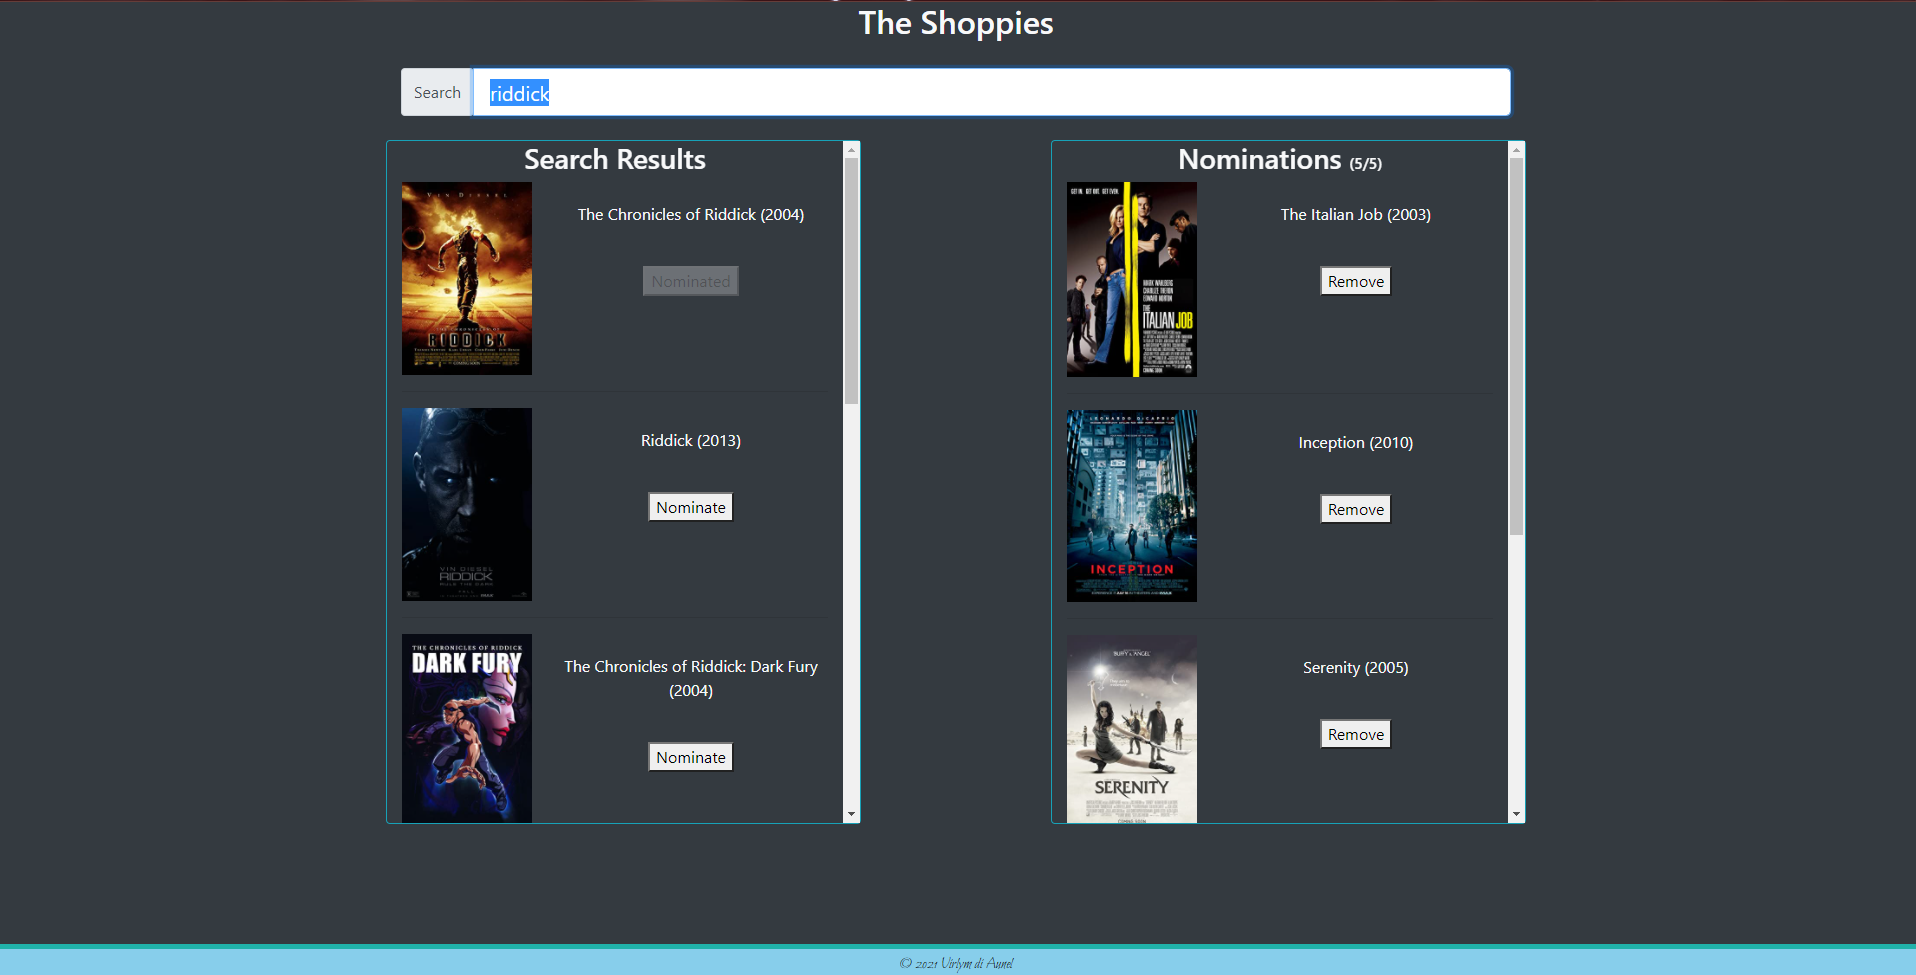
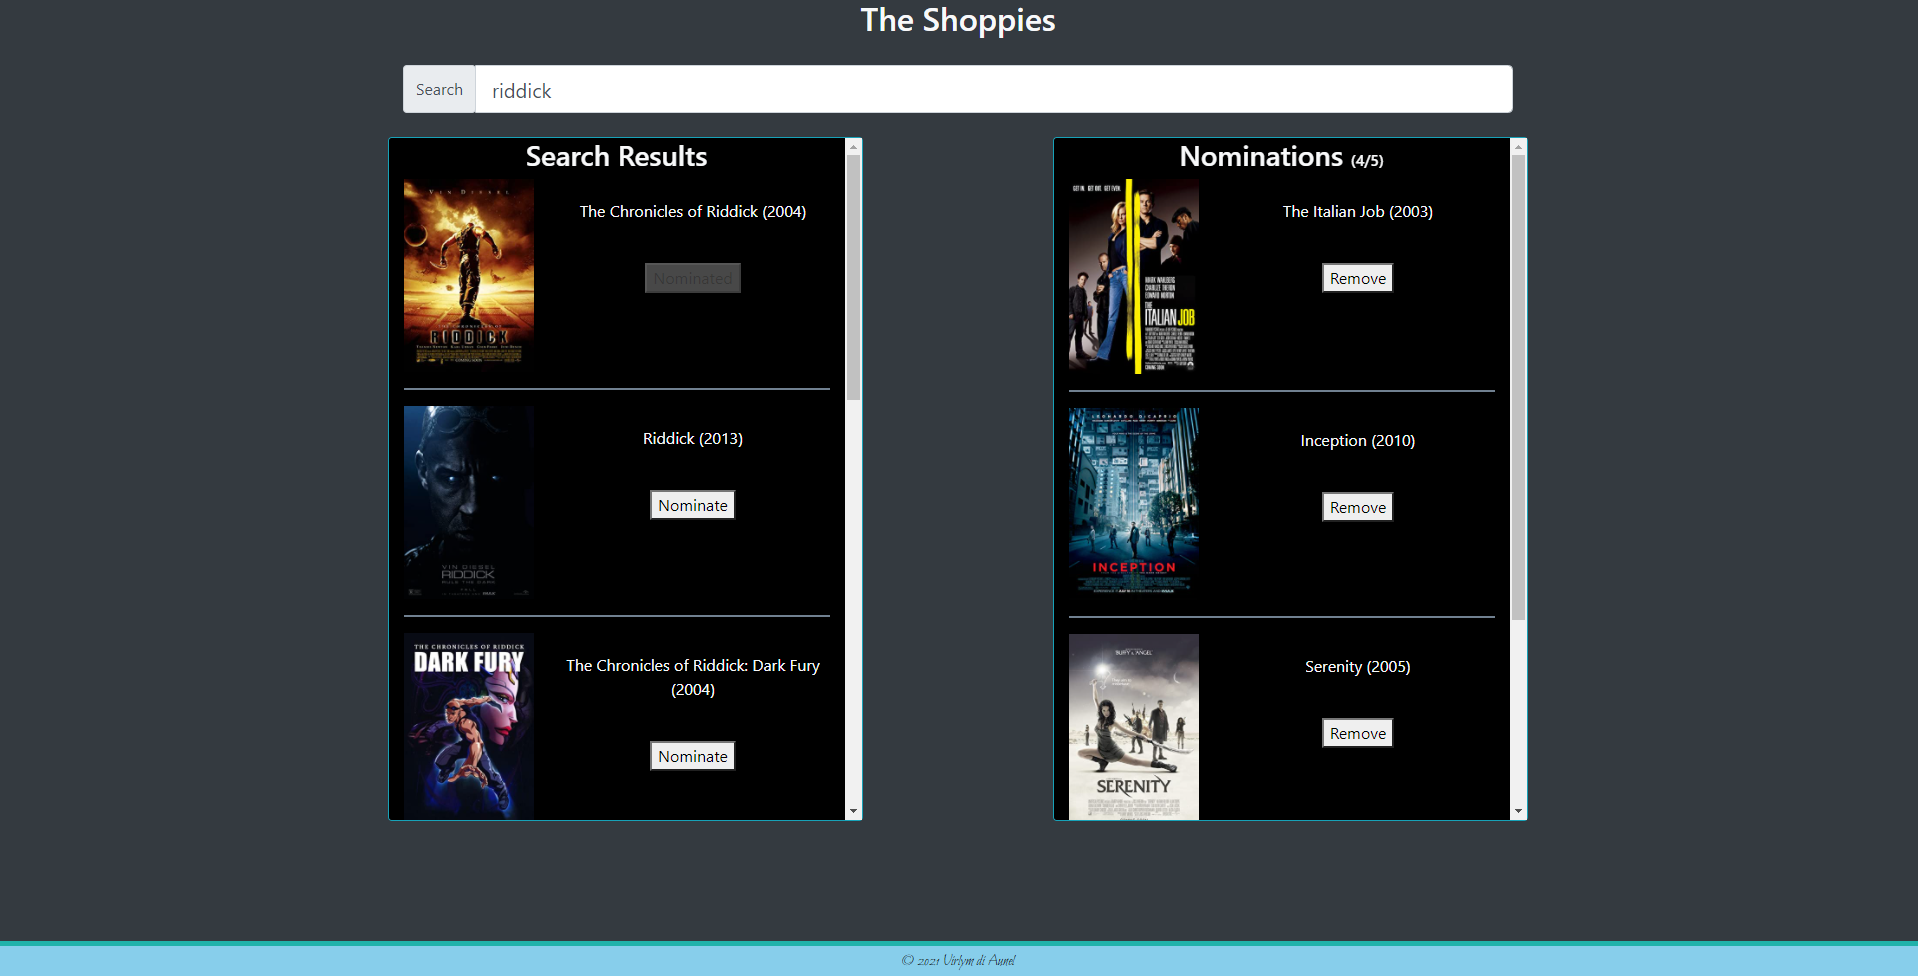
changed background of results and nominations

Changed region(s): [[0.1848, 0.0, 0.8006, 0.8615], [0.0, 0.9538, 1.0, 1.0]]

diff --git a/src/App.js b/src/App.js
@@ -170,7 +170,7 @@ function App() {
       <div className="row">
 
         <div className="col-xl-5 col-lg-12 border border-info rounded-top rounded-bottom display-box">
-          <h3 className="bg-dark section-head"> Search Results </h3>
+          <h3 className="section-head"> Search Results </h3>
           {searchState.searchResults.length > 0
             ? searchState.searchResults.map(function(searchArray){
               return <SearchResults searchResults={searchArray} key={searchArray.id} addNomination={addNomination} />})
@@ -180,7 +180,7 @@ function App() {
         <div className="col-2"></div>
           
         <div className="col-xl-5 col-lg-12 border border-info rounded-top rounded-bottom display-box">
-        <h3 className="bg-dark section-head"> Nominations <span>({nominationState.nominations.length}/5)</span></h3>
+        <h3 className="section-head"> Nominations <span>({nominationState.nominations.length}/5)</span></h3>
         {nominationState.nominations.length > 0
             ? nominationState.nominations.map(function(nominationArray){
               return <Nominations nominations={nominationArray} key={nominationArray.id} removeNomination={removeNomination} />})

diff --git a/src/App.css b/src/App.css
@@ -30,6 +30,7 @@ span {
   top: 0;
   width: 100%;
   z-index: 1;
+  background-color: black;
 }
 
 .display-box {
@@ -38,6 +39,7 @@ span {
   max-height: 70vh;
   overflow-y: auto; 
   text-align: center;
+  background-color: black;
 }
 
 .App-header {
